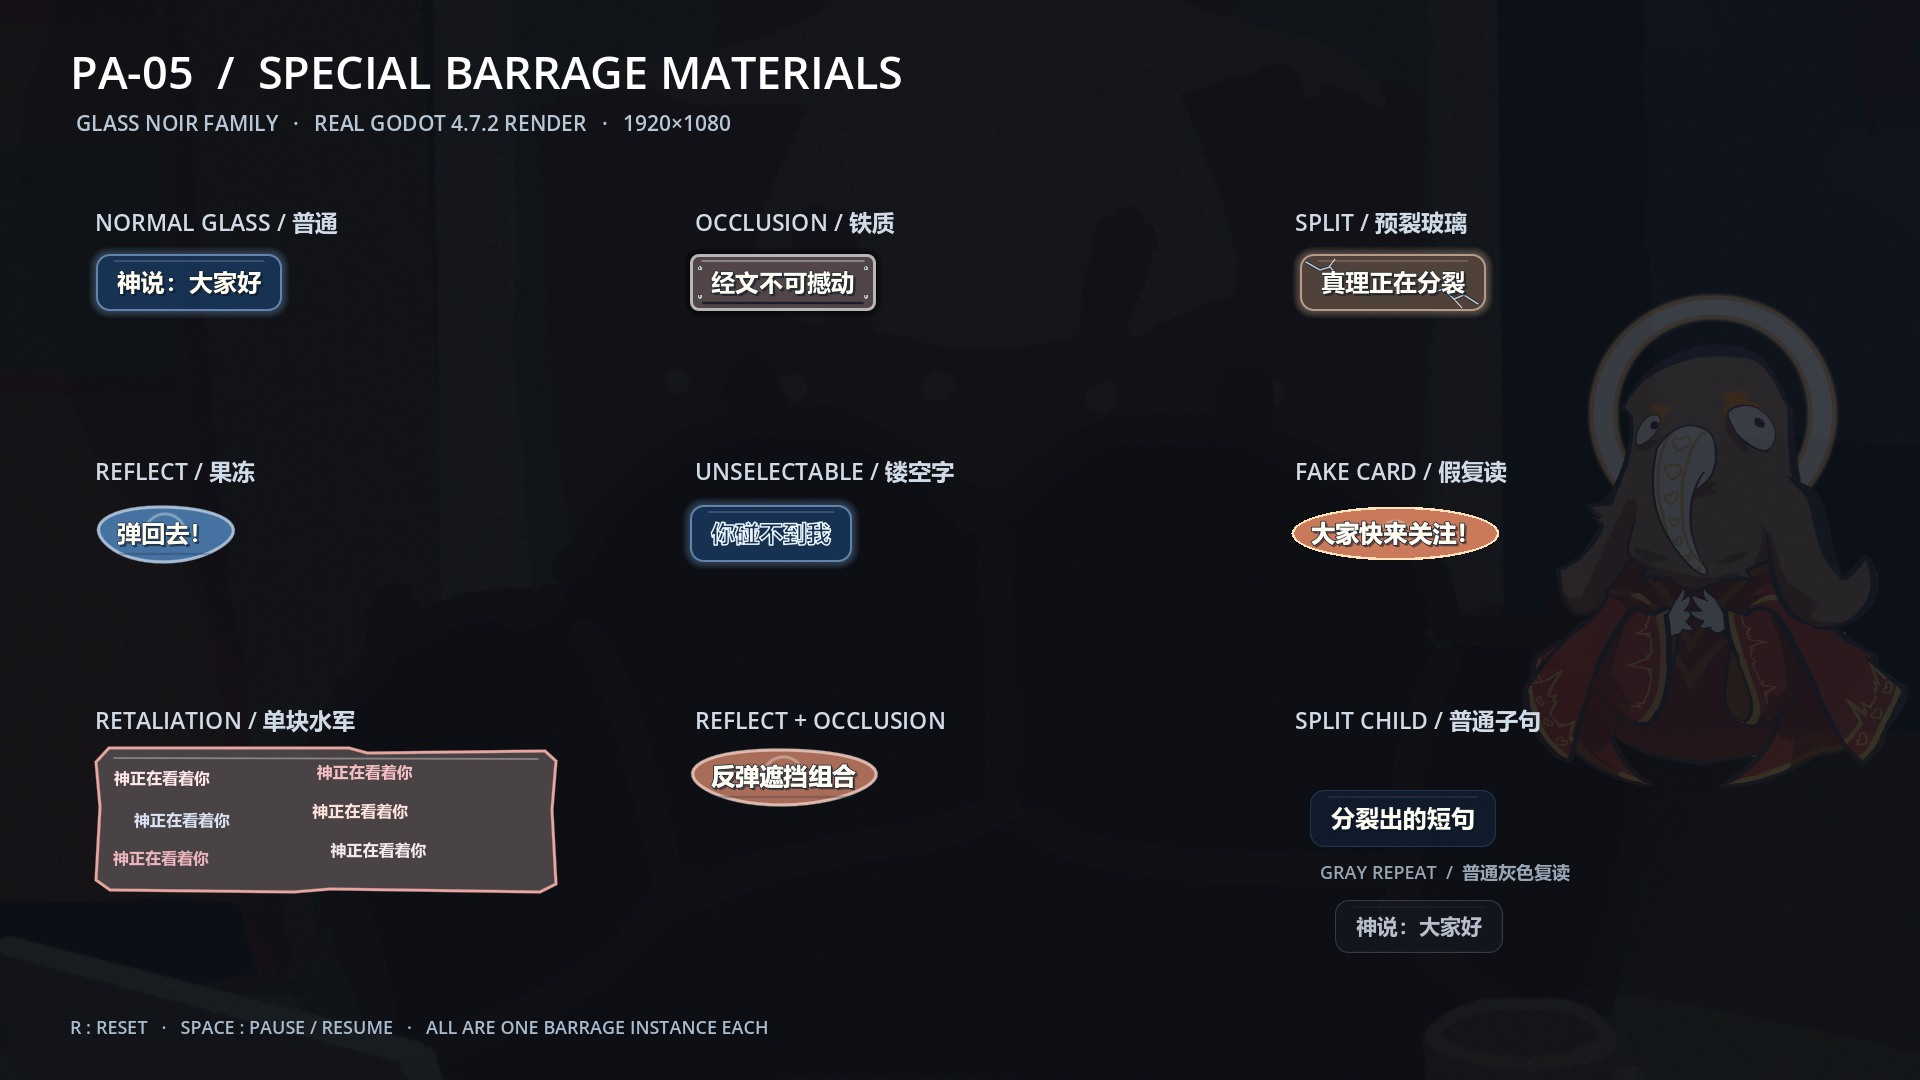
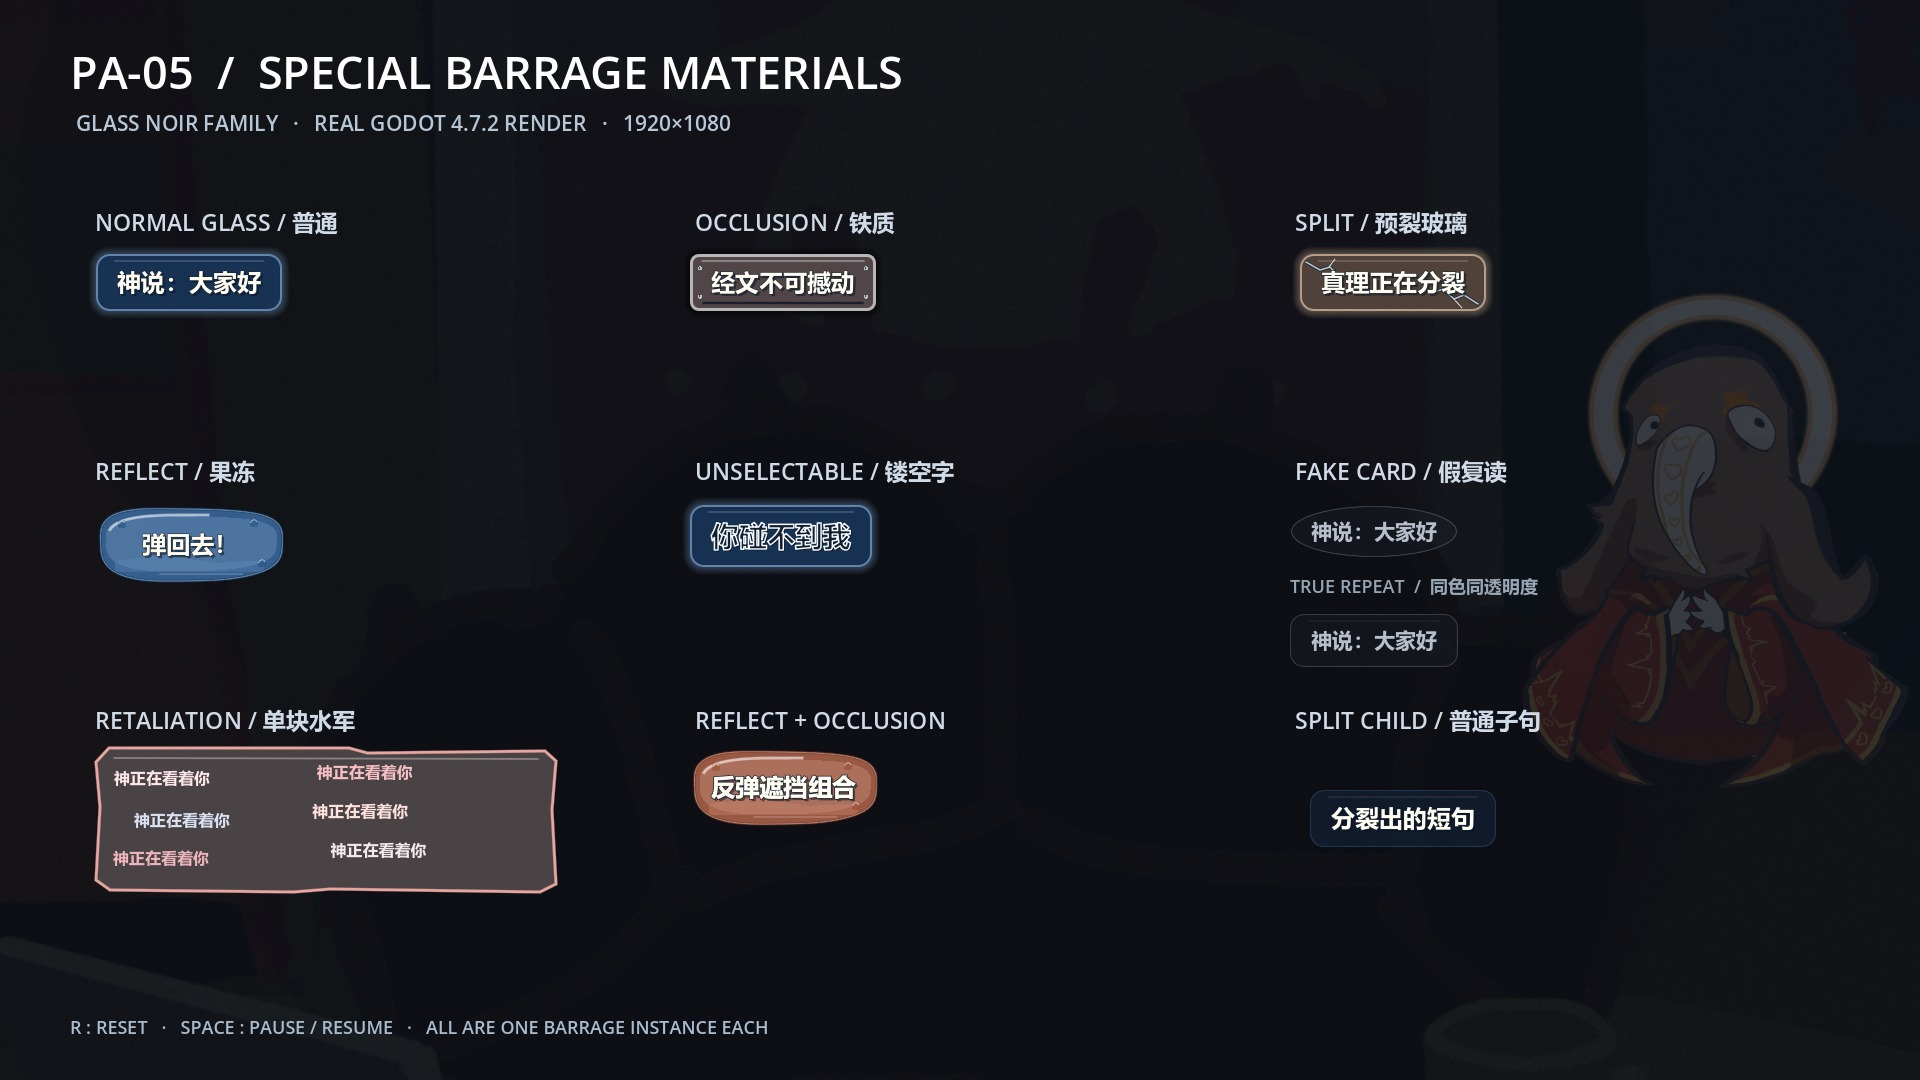
docs(pa-05): align fake-repeat spec and refresh material screenshots

diff --git a/docs/Shared/PresentationAssets/表现资产_PA-05_2026-10-10_log.md b/docs/Shared/PresentationAssets/表现资产_PA-05_2026-10-10_log.md
@@ -8,7 +8,7 @@
 ## 实际修改
 | 文件 | 内容 |
 | --- | --- |
-| `systems/barrage_generation/barrage_special_surface.gd` | 铁质板（拉丝/铆钉）、预裂玻璃（外侧弯曲裂纹）、半透明果冻（边缘变形与湿润反光）、彩色椭圆假复读、单板六处重复小字水军 |
+| `systems/barrage_generation/barrage_special_surface.gd` | 铁质板（拉丝/铆钉）、预裂玻璃（外侧弯曲裂纹）、凝胶软糖（超椭圆软轮廓、内层透光、胶体气泡、缓慢颤动）、真复读同色低透明椭圆假复读、单板六处重复小字水军 |
 | `systems/barrage_generation/barrage_view.gd` | `setup()` 读取真实 `runtime_record.trait_set.get_trait_ids()`；镂空字透明填充和描边；水军单板宽高与纯文本保留；`get_special_material()` |
 | `systems/barrage_generation/barrage_view.tscn` | 原 `GlassSurface` 节点脚本换为 BarrageSpecialSurface 子类，节点路径与父根 Label 保留 |
 | `scenes/demos/pa05_special_barrage_demo.gd/.tscn` | 10 个真实弹幕节点，使用已交付直播背景与 Kiwi PNG；R 重播，Space 暂停 |
@@ -19,17 +19,17 @@
 
 ## 画面和规则
 - 主材质优先级 `reflect → occlusion → fake_card → retaliation_copy → split → glass`，继承已有 TraitSet ID；`unselectable` 作为纯文字效果叠加。
-- 铁板取低饱和金属与硬边，保留正文；预裂玻璃在四周有曲线裂纹；果冻在现有倾向色上绘制软轮廓并持续轻微颤动，重绘沿 PA-04 的约 24Hz 节流，`get_tree().paused` 时保持画面。
-- 正常灰色复读仍走 PA-04 圆角气泡、灰字与零描边；假复读沿用前景可命中语句，鲜艳椭圆气泡、有描边正文。
-- `unselectable` 的 Label 字体填充透明、轮廓可读；底板仍保持原本玻璃。复制品在单个 BarrageView 内通过 `CanvasItem.draw_string()` 重复绘制六处小字号同一句话。此时 Label 正文隐藏，但 `runtime_record.text`、`get_visual_plain_text()`、`original_sentence_id` 及一次命中结果均不变。Panel 的根 rect 至少 460×144，用原有 Rect 参与攻击判定，额外小字不产生独立命中对象。
+- 铁板取低饱和金属与硬边，保留正文；预裂玻璃在四周有曲线裂纹；果冻参考 Dribbble 的 [Neo Blue Liquid Glass](https://dribbble.com/shots/26925663-Neo-Blue-Liquid-Glass-Navigation-UI) / [Liquid Glass Button Design](https://dribbble.com/shots/26240231-Liquid-Glass-button-Design)，以带厚度的柔软轮廓、内部透光胶体、边缘气泡和局部镜面反光重新设计；独立材质高度至少 78px，持续微幅颤动，重绘沿 PA-04 的约 24Hz 节流，`get_tree().paused` 时保持画面。
+- 正常灰色复读仍走 PA-04 圆角气泡、灰字与零描边；假复读仍为前景可命中语句，**外观共用真复读的底色、透明度、文字颜色、字号、零描边**，唯独外框是椭圆；真复读是圆角。外观统一按重复样式 S1 计算，即使假复读运行时 strength=3，也与普通复读运行时 strength=1 保持同色同透明度；真实 strength 事实未修改。
+- `unselectable` 的 Label 字体采用近透明内芯（alpha 0.08）、更清晰的 28px 字号、浅色描边与暗投影；仍透出普通玻璃底板。复制品在单个 BarrageView 内通过 `CanvasItem.draw_string()` 重复绘制六处小字号同一句话。此时 Label 正文隐藏，但 `runtime_record.text`、`get_visual_plain_text()`、`original_sentence_id` 及一次命中结果均不变。Panel 的根 rect 至少 460×144，用原有 Rect 参与攻击判定，额外小字不产生独立命中对象。
 - 分裂产生的普通子句需要由正式生成系统生成新、无 TraitSet 的 BarrageRuntimeRecord；该视图会自动使用尺寸自适应的普通玻璃。本卡只做常态材质，分裂动画、实际生成与硬碰/反弹命中特效继续由其对应系统及 PA-06 处理。
 - 可调颜色、边框、裂纹、果冻、复制板尺寸和字体参数通过 `barrage_special_surface.gd` Inspector；外部继续使用 `BarrageView.setup()`、`set_visual_bbcode()`、`get_visual_plain_text()`、`pulse_presentation()`，新增只读 `get_special_material()`。
 
 ## 实际验证
 1. Godot **4.7.2.stable.steam.ed1daf0bf**，Windows AMD Radeon、OpenGL Compatibility：正式脚本和演示 `--check-only` 均退出码 0。
-2. `godot --headless --path <project> --script res://tests/visual/pa05_special_material_smoke.gd`：**4 组外部行为 PASS，退出码 0**。涵盖主材质优先级、透明空心字与不可选事实、单水军实体命中结算类型、真假复读/普通子句。
+2. `godot --headless --path <project> --script res://tests/visual/pa05_special_material_smoke.gd`：**4 组外部行为 PASS，退出码 0**。涵盖主材质优先级、空心字与不可选事实、单水军命中实体、真假复读同色/同 alpha/同文字样式/不同外框和普通子句。
 3. PA-04 原有 4 组行为冒烟、弹幕生成/容量/生命周期 3 项回归：**全部退出码 0**。
-4. `pa05_capture_1920.tscn -- --capture-pa05`：**两张 1920×1080** 实际 GPU JPG（品质 92，原始 PNG 保存在本地） 均保存成功，10 个真实弹幕实例、退出码 0，运行 stderr 无新增错误。人工检查六种材质、镂空文字、灰色复读与多处水军小字均可辨；果冻区域在间隔 0.47 秒的两帧中，采样 2728 个位置有 452 处明显变化，确认持续形变。
+4. `pa05_capture_1920.tscn -- --capture-pa05`：**两张 1920×1080** 实际 GPU JPG（品质 92，原始 PNG 保存在本地） 均保存成功，10 个真实弹幕实例、退出码 0，运行 stderr 无新增错误。人工检查六种材质、镂空文字、灰色复读与多处水军小字均可辨；果冻区域在间隔 0.47 秒的两帧中，采样 1690 个位置有 240 处明显变化，确认持续形变。
 5. 独立 worktree 首次导入约 119 秒，存在工程既有音频加载与翻译 CSV 警告，遵从 AGENTS.md 不修改公共插件/资源配置。Android 真机帧率、大量动态弹幕重叠及正式战斗 Sandbox 接线 **尚未验证**。
 
 ## 交接

diff --git a/docs/Shared/PresentationAssets/tasks/PA-05_special-barrage-material-appearance.md b/docs/Shared/PresentationAssets/tasks/PA-05_special-barrage-material-appearance.md
@@ -44,11 +44,11 @@
 - 将正文呈现为**描边镂空字**：保留完整字形轮廓，字面内部透明，可透出下方底板。
 - 与现有普通弹幕的实心文字形成明显视觉对比，同时保留文字辨认能力。
 
-### 5. 假复读（fake_card）：鲜艳椭圆气泡
+### 5. 假复读（fake_card）：真复读同色同透明度的椭圆气泡
 - 正常复读沿用现有**圆角气泡外框**。
 - 假复读采用**椭圆气泡外框**，保持与正常复读一致的气泡家族感。
-- 假复读整体配色比正常复读**更鲜艳、更醒目**，形成吸引玩家攻击的视觉效果。
-- 假复读属于携带 `fake_card` 特性的**前景普通话语实例**，采用清晰的前景文字描边与醒目配色；背景普通复读继续使用灰色、零文字描边样式。
+- 假复读与正常复读**使用相同底色、透明度、文字颜色、字号和描边**；外框为椭圆，正常复读保持圆角。
+- 假复读仍属于携带 `fake_card` 特性的**前景普通话语实例**，保留原可命中与结算事实；外观则沿用背景普通复读的灰色、低透明度与零文字描边，只靠外框形状分辨真假。
 
 ### 6. 水军反击（retaliation_copy）：连体刷屏板
 - 将**单个携带 `retaliation_copy` 的前景弹幕实例**视觉表现为**一整个连在一起的不规则 Panel**，形成成团涌现的刷屏块。一个 Panel 仍对应该实例原有的命中区域和一次结算。
@@ -69,7 +69,7 @@
 - 果冻弹幕平时持续呈现柔软、Q 弹的材质感。
 - 不可选弹幕正文为清晰可辨的空心描边字，玻璃底板保持一致。
 - 分裂后的子弹幕使用普通玻璃外观。
-- 正常复读是底层灰字、零文字描边的圆角气泡；假复读是带 `fake_card` 特性的前景话语，采用醒目椭圆气泡及有描边文字。
+- 真复读和假复读的底色、透明度、文字颜色、字号与描边相同；真复读为圆角气泡，假复读为椭圆气泡且仍是独立可命中前景实例。
 - 水军反击呈现为一个整体不规则 Panel，内部散布多处小字号重复短句；**单实例、单命中区域、单次结果**关系在运行画面中保持正确。
 - 多特性组合以统一主底板优先级呈现，文字镂空层能够按现有兼容关系叠加。
 - 多条弹幕同屏时材质特征仍清楚，运行画面与 Godot Output / Debugger 验证通过。
